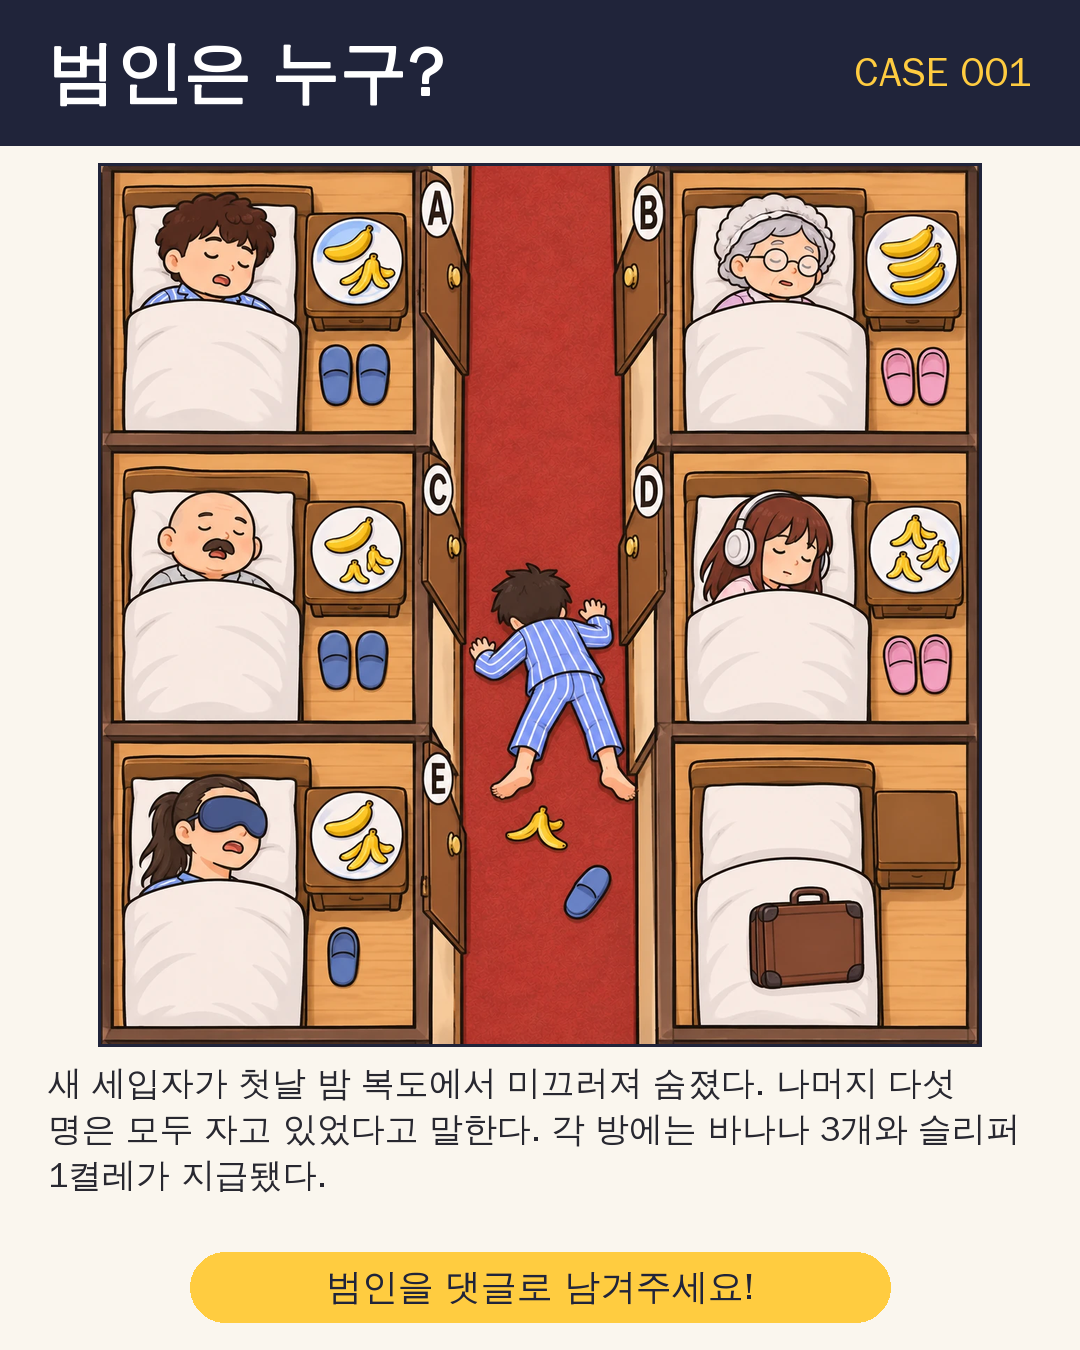
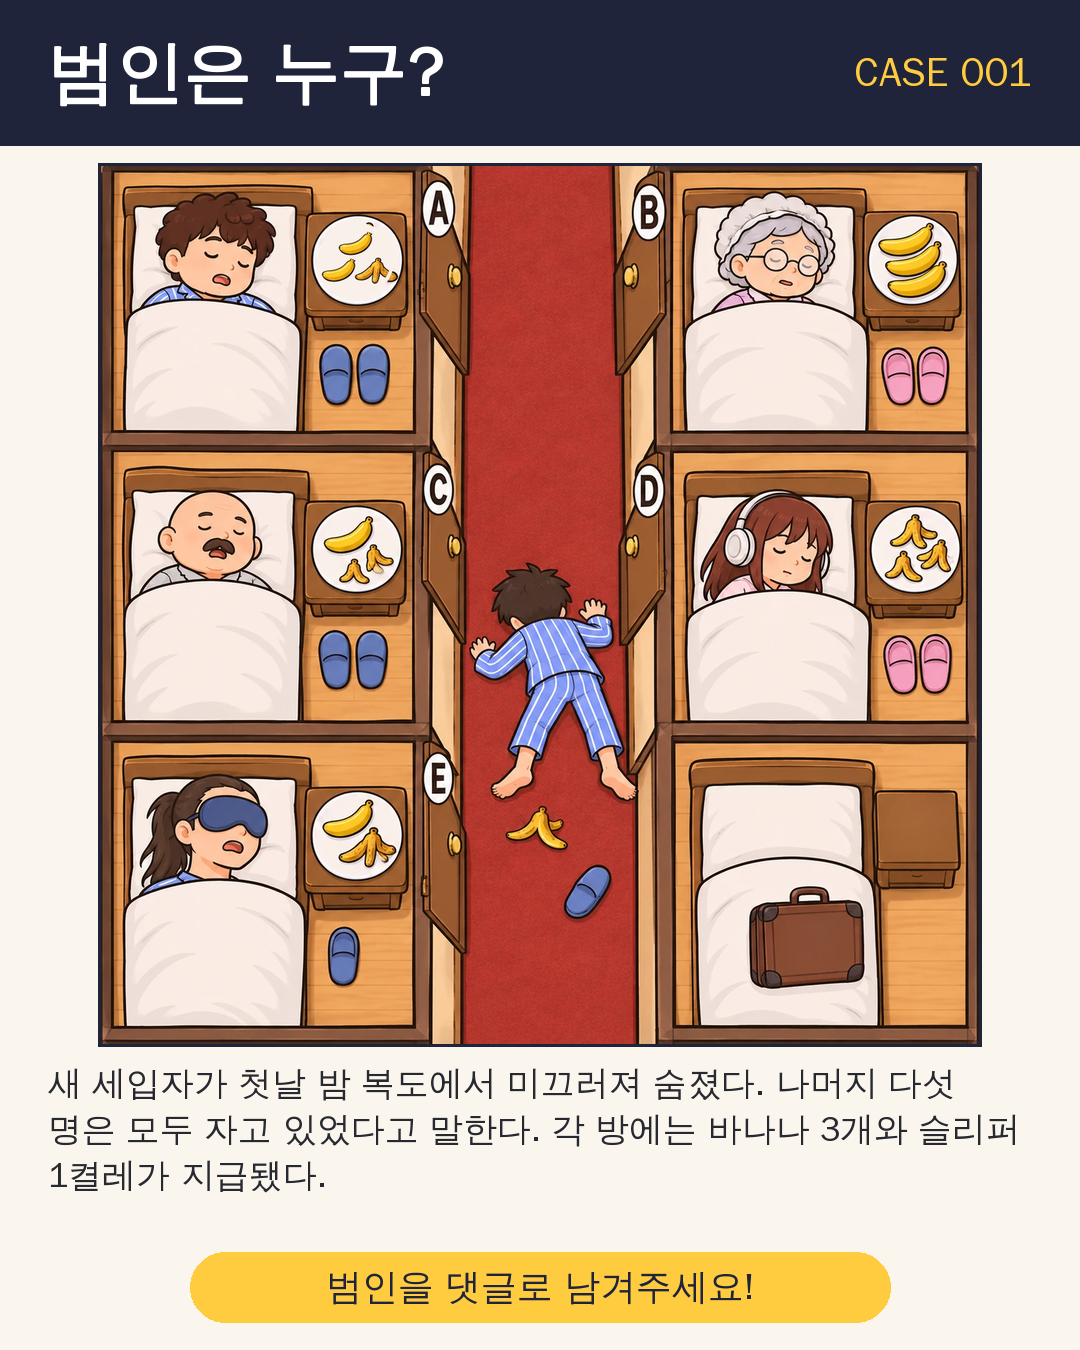
접시 직접 합성 기능 추가 (GPT가 개수를 반복해서 틀릴 때의 대응)
- tools/plate.py: 그림 속 접시에서 바나나/껍질 조각을 잘라 저장하고,
  지정한 방의 접시를 사건 JSON 개수대로 다시 배치
- run.py sprite / plate 명령 추가, GPT 원본은 NNN_orig.png로 백업
- 배치는 모든 조합에서 조각이 붙지 않고 접시 밖으로 나가지 않는 최대 크기
- 사건 001 A방(바나나 1→2) 보정 결과로 샘플 카드 갱신

Claude-Session: https://claude.ai/code/session_01Qb6j2jz36gMBeDYd4tNc2m

diff --git a/tools/plate.py b/tools/plate.py
@@ -1,0 +1,146 @@
+"""접시 직접 합성 (GPT가 개수를 계속 틀릴 때의 대응).
+
+1) sprite: 그림 속 접시에서 바나나/껍질 조각을 잘라 assets/sprites/에 저장 (화풍 유지, 한 번만)
+2) rebuild: 지정한 방의 접시를 비우고, 사건 JSON 개수대로 조각을 다시 배치
+
+좌표는 ROOM_BOXES(방) 기준 비율이다. 구도가 바뀌면 PLATE_CENTER / PLATE_R 를 조정한다.
+"""
+from collections import deque
+from pathlib import Path
+
+from PIL import Image, ImageDraw
+
+from tools.common import ROOT, props
+from tools.compose import ROOM_BOXES
+
+SPRITES = ROOT / "assets" / "sprites"
+PLATE_CENTER = (0.80, 0.335)  # 방 안 접시 중심 (방 폭·높이 기준 비율)
+PLATE_R = 0.143               # 접시 반지름 (방 폭 기준 비율)
+INNER = 0.86                  # 접시 테두리를 남기고 비울 범위 (반지름 비율)
+
+# 물건 n개 배치: (x, y) 는 접시 반지름 기준, 마지막 값은 조각 폭 / 접시 지름
+LAYOUTS = {  # 모든 바나나/껍질 조합에서 "서로 안 닿음 + 접시 밖 침범 없음"을 만족하는 최대 크기 (tests/test_plate.py)
+    1: ([(0, 0)], 0.70),
+    2: ([(-0.10, -0.40), (0.10, 0.40)], 0.62),
+    3: ([(0, -0.36), (-0.38, 0.26), (0.38, 0.26)], 0.40),
+    4: ([(-0.36, -0.28), (0.36, -0.28), (-0.36, 0.28), (0.36, 0.28)], 0.36),
+}
+
+
+def plate_geom(img: Image.Image, pos: str):
+    x0, y0, x1, y1 = ROOM_BOXES[pos]
+    W, H = img.size
+    rx0, ry0, rw, rh = x0 * W, y0 * H, (x1 - x0) * W, (y1 - y0) * H
+    cx, cy = rx0 + rw * PLATE_CENTER[0], ry0 + rh * PLATE_CENTER[1]
+    return cx, cy, rw * PLATE_R
+
+
+def _is_white(px):
+    return px[0] > 210 and px[1] > 210 and px[2] > 205
+
+
+def _plate_color(img, cx, cy, r):
+    samples = []
+    for dx in range(-int(r), int(r), 3):
+        for dy in range(-int(r), int(r), 3):
+            if dx * dx + dy * dy < (r * INNER) ** 2:
+                px = img.getpixel((int(cx + dx), int(cy + dy)))
+                if _is_white(px):
+                    samples.append(px)
+    if not samples:
+        return (248, 248, 246)
+    samples.sort(key=sum)
+    return samples[len(samples) // 2]
+
+
+def components(img: Image.Image, pos: str, min_px=150):
+    """접시 안의 물건 조각들 (위→아래 순서). 각 조각은 RGBA 이미지."""
+    img = img.convert("RGB")
+    cx, cy, r = plate_geom(img, pos)
+    rr = r * INNER
+    x0, y0 = int(cx - rr), int(cy - rr)
+    size = int(rr * 2)
+    mask = [[False] * size for _ in range(size)]
+    for j in range(size):
+        for i in range(size):
+            dx, dy = i - rr, j - rr
+            if dx * dx + dy * dy < rr * rr and not _is_white(img.getpixel((x0 + i, y0 + j))):
+                mask[j][i] = True
+    seen = [[False] * size for _ in range(size)]
+    comps = []
+    for j in range(size):
+        for i in range(size):
+            if mask[j][i] and not seen[j][i]:
+                q, pts = deque([(i, j)]), []
+                seen[j][i] = True
+                while q:
+                    a, b = q.popleft()
+                    pts.append((a, b))
+                    for na, nb in ((a + 1, b), (a - 1, b), (a, b + 1), (a, b - 1)):
+                        if 0 <= na < size and 0 <= nb < size and mask[nb][na] and not seen[nb][na]:
+                            seen[nb][na] = True
+                            q.append((na, nb))
+                if len(pts) >= min_px:
+                    comps.append(pts)
+    out = []
+    for pts in comps:
+        xs, ys = [p[0] for p in pts], [p[1] for p in pts]
+        bx0, by0, bx1, by1 = min(xs), min(ys), max(xs) + 1, max(ys) + 1
+        spr = Image.new("RGBA", (bx1 - bx0, by1 - by0), (0, 0, 0, 0))
+        pset = set(pts)
+        for a, b in pts:
+            r_, g_, b_ = img.getpixel((x0 + a, y0 + b))
+            edge = any((na, nb) not in pset for na, nb in ((a + 1, b), (a - 1, b), (a, b + 1), (a, b - 1)))
+            if edge and r_ + g_ + b_ > 560:  # 접시와 섞인 밝은 가장자리는 버림
+                continue
+            spr.putpixel((a - bx0, b - by0), (r_, g_, b_, 255))
+        out.append(((bx0 + bx1) / 2 + x0, (by0 + by1) / 2 + y0, spr))
+    out.sort(key=lambda t: t[1])
+    return [s for _, _, s in out]
+
+
+def extract_sprite(img: Image.Image, pos: str, index: int, name: str) -> Path:
+    comps = components(img, pos)
+    if not comps:
+        raise SystemExit(f"[오류] {pos} 접시에서 조각을 찾지 못했습니다. PLATE_CENTER/PLATE_R 확인.")
+    if index >= len(comps):
+        raise SystemExit(f"[오류] {pos} 접시 조각은 {len(comps)}개뿐입니다 (index {index}).")
+    SPRITES.mkdir(parents=True, exist_ok=True)
+    path = SPRITES / f"{name}.png"
+    comps[index].save(path)
+    return path
+
+
+def load_sprites():
+    b, p = SPRITES / "banana.png", SPRITES / "peel.png"
+    if not (b.exists() and p.exists()):
+        raise SystemExit("[오류] assets/sprites/banana.png, peel.png 가 없습니다. 먼저 sprite 명령으로 만드세요.")
+    return Image.open(b).convert("RGBA"), Image.open(p).convert("RGBA")
+
+
+def rebuild_plate(img: Image.Image, case: dict, sid: str) -> Image.Image:
+    s = next((x for x in case["suspects"] if x["id"] == sid), None)
+    if s is None:
+        raise SystemExit(f"[오류] 없는 방: {sid}")
+    p = props(s)
+    items = ["banana"] * p["bananas"] + ["peel"] * p["peels"]
+    if len(items) > max(LAYOUTS):
+        raise SystemExit(f"[오류] {sid} 접시 물건 {len(items)}개는 배치할 수 없습니다 (최대 {max(LAYOUTS)}).")
+    banana, peel = load_sprites()
+    img = img.convert("RGB").copy()
+    cx, cy, r = plate_geom(img, s["pos"])
+    color = _plate_color(img, cx, cy, r)
+    d = ImageDraw.Draw(img)
+    rr = r * INNER
+    d.ellipse([cx - rr, cy - rr, cx + rr, cy + rr], fill=color)
+    if not items:
+        return img
+    spots, wfrac = LAYOUTS[len(items)]
+    for (ux, uy), kind in zip(spots, items):
+        spr = banana if kind == "banana" else peel
+        tw = 2 * r * wfrac
+        scale = tw / max(spr.width, spr.height)
+        sp = spr.resize((max(1, int(spr.width * scale)), max(1, int(spr.height * scale))), Image.LANCZOS)
+        px, py = cx + ux * r - sp.width / 2, cy + uy * r - sp.height / 2
+        img.paste(sp, (int(px), int(py)), sp)
+    return img

diff --git a/run.py b/run.py
@@ -5,6 +5,8 @@ python run.py prompt NNN [--fix A,D]
 python run.py compose NNN
 python run.py review NNN
 python run.py all NNN
+python run.py sprite NNN --room A --index 0 --name banana   (그림에서 조각 저장, 한 번만)
+python run.py plate NNN --rooms A                          (지정한 방 접시를 설계값대로 다시 그림)
 """
 import argparse
 import sys
@@ -64,11 +66,53 @@ def cmd_review(cid: str):
     print(f"[완료] out/{cid}/review_request.md, out/{cid}/caption.txt")
 
 
+def _art_path(cid: str):
+    from tools.common import INPUT
+    for ext in ("png", "jpg", "jpeg", "webp"):
+        p = INPUT / f"{cid}.{ext}"
+        if p.exists():
+            return p
+    sys.exit(f"[오류] input/{cid}.png 이 없습니다.")
+
+
+def cmd_sprite(cid: str, room: str, index: int, name: str):
+    from PIL import Image
+    from tools.common import suspect_by_id
+    from tools.plate import extract_sprite
+    case = load_case(cid)
+    s = suspect_by_id(case, room)
+    if not s:
+        sys.exit(f"[오류] 없는 방: {room}")
+    path = extract_sprite(Image.open(_art_path(cid)), s["pos"], index, name)
+    print(f"[완료] {path}")
+
+
+def cmd_plate(cid: str, rooms: str):
+    from PIL import Image
+    from tools.plate import rebuild_plate
+    case, _ = require_ok(cid)
+    src = _art_path(cid)
+    orig = src.with_name(f"{cid}_orig{src.suffix}")
+    if not orig.exists():  # GPT 원본은 한 번만 백업하고, 항상 원본에서 다시 합성
+        orig.write_bytes(src.read_bytes())
+    img = Image.open(orig)
+    ids = [x.strip().upper() for x in rooms.split(",") if x.strip()]
+    for sid in ids:
+        img = rebuild_plate(img, case, sid)
+    out = src.with_suffix(".png")
+    img.save(out)
+    print(f"[완료] {', '.join(ids)}방 접시를 설계값대로 다시 그림 → {out.name} (원본: {orig.name})")
+
+
 def main():
     ap = argparse.ArgumentParser(description="추리 퍼즐 콘텐츠 자동화")
-    ap.add_argument("command", choices=["verify", "prompt", "compose", "review", "all"])
+    ap.add_argument("command", choices=["verify", "prompt", "compose", "review", "all", "sprite", "plate"])
     ap.add_argument("case_id", help="사건 번호 (예: 001)")
     ap.add_argument("--fix", help="부분 수정할 방 (예: A,D)")
+    ap.add_argument("--rooms", help="plate: 접시를 다시 그릴 방 (예: A,D)")
+    ap.add_argument("--room", help="sprite: 조각을 잘라올 방")
+    ap.add_argument("--index", type=int, default=0, help="sprite: 접시 안 조각 번호 (위에서부터 0)")
+    ap.add_argument("--name", choices=["banana", "peel"], help="sprite: 저장 이름")
     a = ap.parse_args()
     cid = a.case_id.zfill(3)
 
@@ -81,6 +125,14 @@ def main():
         cmd_compose(cid)
     elif a.command == "review":
         cmd_review(cid)
+    elif a.command == "sprite":
+        if not (a.room and a.name):
+            sys.exit("[오류] --room 과 --name 이 필요합니다.")
+        cmd_sprite(cid, a.room.upper(), a.index, a.name)
+    elif a.command == "plate":
+        if not a.rooms:
+            sys.exit("[오류] --rooms 가 필요합니다 (예: --rooms A).")
+        cmd_plate(cid, a.rooms)
     elif a.command == "all":
         _, r = cmd_verify(cid)
         if not r.ok:

diff --git a/tests/test_plate.py b/tests/test_plate.py
@@ -1,0 +1,47 @@
+"""접시 직접 합성 테스트: 조각 수 = 설계값, 조각끼리 안 닿음, 접시 밖 침범 없음."""
+import itertools
+import unittest
+
+from PIL import Image, ImageDraw
+
+from tools.common import load_case
+from tools.plate import LAYOUTS, components, plate_geom, rebuild_plate
+
+
+def blank_art(size=1254):
+    img = Image.new("RGB", (size, size), (200, 150, 90))
+    d = ImageDraw.Draw(img)
+    for pos in ["L0", "R0", "L1", "R1", "L2"]:
+        cx, cy, r = plate_geom(img, pos)
+        d.ellipse([cx - r, cy - r, cx + r, cy + r], fill=(250, 250, 250), outline=(30, 30, 30), width=3)
+    return img
+
+
+class TestPlate(unittest.TestCase):
+    def test_case_001_counts(self):
+        case = load_case("001")
+        img = blank_art()
+        for s in case["suspects"]:
+            img = rebuild_plate(img, case, s["id"])
+        for s in case["suspects"]:
+            p = s["props"]
+            self.assertEqual(len(components(img, s["pos"])), p["bananas"] + p["peels"], f"{s['id']}방")
+
+    def test_all_layouts_separate_and_inside(self):
+        base = blank_art()
+        cx, cy, r = plate_geom(base, "L0")
+        ring = [(x, y) for y in range(int(cy - 1.3 * r), int(cy + 1.3 * r))
+                for x in range(int(cx - 1.3 * r), int(cx + 1.3 * r))
+                if 0.93 * r < ((x - cx) ** 2 + (y - cy) ** 2) ** 0.5 < 1.3 * r]
+        for n in LAYOUTS:
+            for combo in itertools.product("bp", repeat=n):
+                case = {"suspects": [{"id": "X", "pos": "L0",
+                                      "props": {"bananas": combo.count("b"), "peels": combo.count("p")}}]}
+                img = rebuild_plate(base, case, "X")
+                with self.subTest(combo="".join(combo)):
+                    self.assertEqual(len(components(img, "L0")), n, "조각이 붙음")
+                    self.assertFalse(any(img.getpixel(p) != base.getpixel(p) for p in ring), "접시 밖 침범")
+
+
+if __name__ == "__main__":
+    unittest.main()

diff --git a/README.md b/README.md
@@ -19,12 +19,15 @@ pip install -r requirements.txt
 | `python run.py compose 001` | 퍼즐·정답 카드 (1080×1350) | `out/001/puzzle.png`, `answer.png` |
 | `python run.py review 001` | Claude 채팅용 최종검토 요청문 + 캡션 | `out/001/review_request.md`, `caption.txt` |
 | `python run.py all 001` | 위 전체 연속 실행 | |
+| `python run.py plate 001 --rooms A` | GPT가 계속 틀린 방의 접시를 설계값대로 직접 합성 | `input/001.png` (원본은 `001_orig.png`로 백업) |
+| `python run.py sprite 001 --room A --index 0 --name banana` | 그림 속 접시에서 바나나/껍질 조각 저장 (화풍 바뀔 때만) | `assets/sprites/*.png` |
 
 검증에 실패하면 이후 단계는 실행되지 않는다.
 
 ## 일일 워크플로
 1. Claude Code에 "새 사건 만들어줘 (normal)" → 사건 JSON 작성, 검증 통과까지 반복
 2. `gpt_prompt.txt`를 GPT에 붙여넣기 → 단서 개수 확인 → 틀리면 `--fix`로 부분 수정 → `input/NNN.png`로 저장
+   - 부분 수정을 2번 해도 틀리면 `python run.py plate NNN --rooms A`로 접시를 직접 합성
 3. `python run.py compose NNN`
 4. 카드 2장 + `review_request.md`를 Claude 채팅에 붙여넣기 → 업로드 가능/수정 후 가능/불가 판정
 5. 퍼즐 카드 업로드(`caption.txt`), 다음 날 정답 카드 업로드
